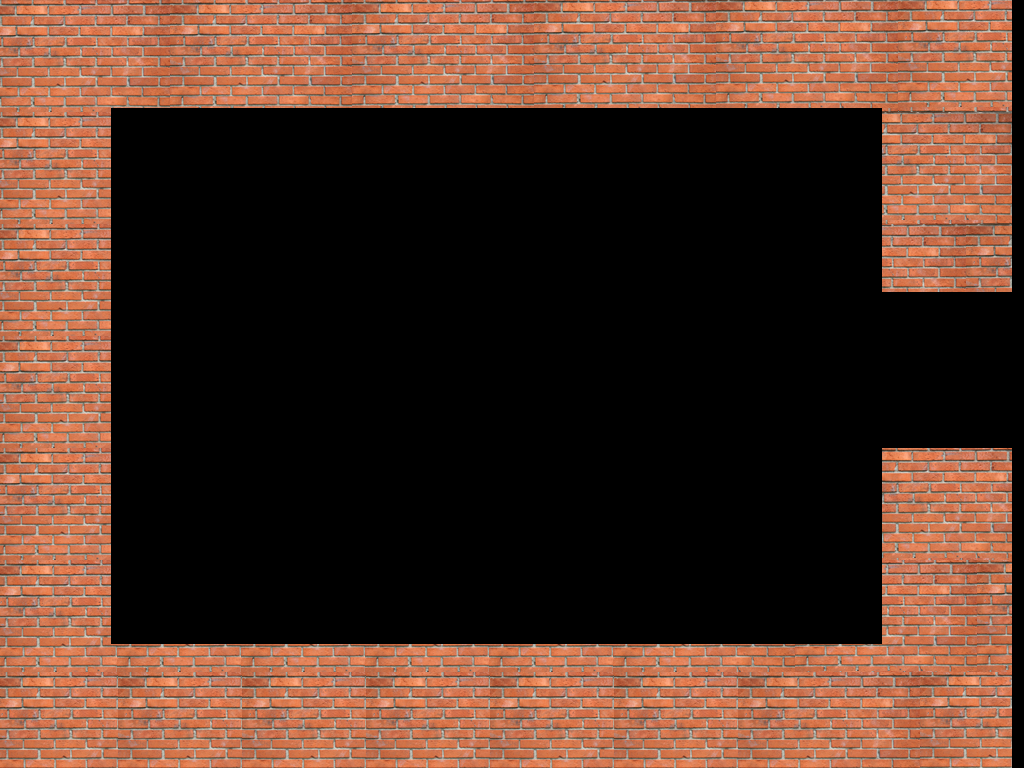
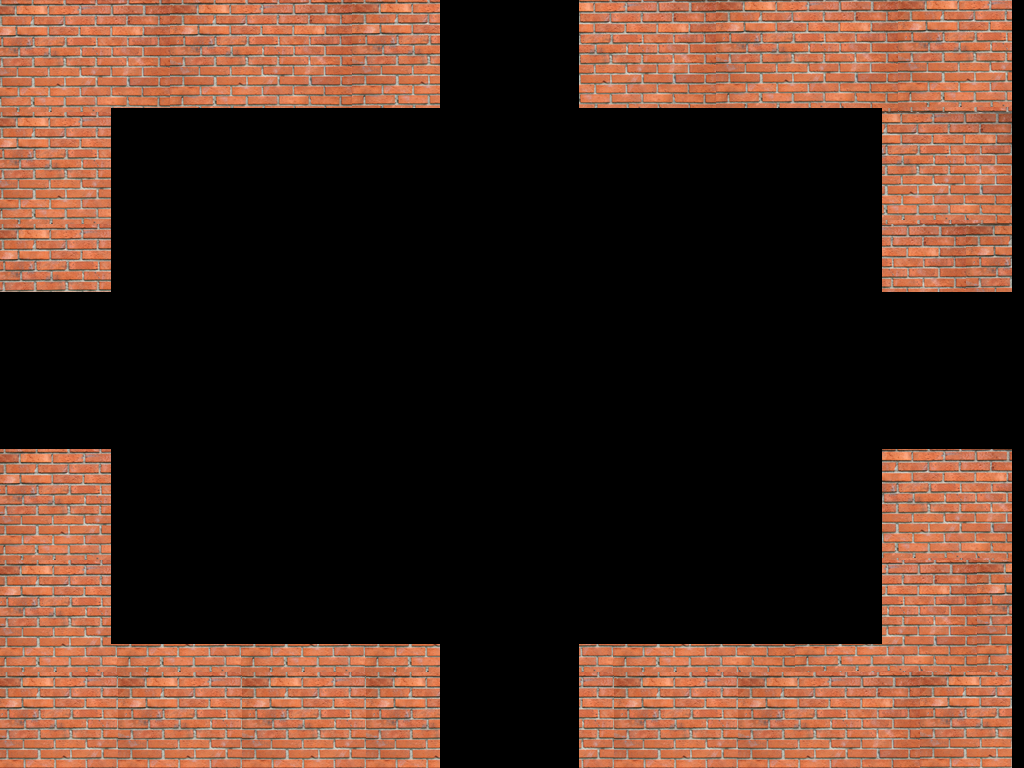
more collision

Changed region(s): [[0.4062, 0.8125, 0.5625, 1.0], [0.0, 0.375, 0.125, 0.5938], [0.4062, 0.0, 0.5625, 0.1562]]

diff --git a/background/main.cpp b/background/main.cpp
@@ -116,7 +116,7 @@ int main(int argc, char **argv)
                 if(up && cy >= 132){
                     cy-=2;
                 }
-                if(down && cy <= 622){
+                if(down && (cy <= 622 || (cx < ScreenWidth/2 + 50 && cx > ScreenWidth/2 - 50))){
                     cy+=2;
                 }
                 al_draw_filled_circle(cx, cy, cr, al_color_name("white"));
